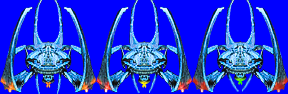
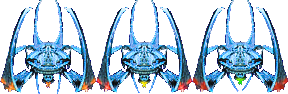
Cambio en la gestión de las imagenes
Se cambio como se manejaban las imagenes, siendo más similar al juego original y logrando ocupar menos espacio.

diff --git a/main.py b/main.py
@@ -46,25 +46,40 @@ vent_rect = ventana.get_rect()
 logo_rect = logo.get_rect()
 logo_rect.center = vent_rect.center
 
+EXPLOSION_IMAGEN = pygame.image.load('Imagenes/EXPLODE.PNG').convert()
+imagenes_invasores_todo_unido = [pygame.image.load('Imagenes/enemigos/ENEMY.PNG').convert()
+					            ,pygame.image.load('Imagenes/enemigos/ENEMY2.PNG').convert()
+					            ,pygame.image.load('Imagenes/enemigos/ENEMY3.PNG').convert()]
+					 
+imagen_potenciadores_todo_unido = pygame.image.load('./Imagenes/POWERUPS.PNG').convert()
+imagen_asteroides_todo_unido = pygame.image.load('Imagenes/ASTEROIDS.PNG').convert()
+imagen_nave_nodriza_todo_unido = pygame.image.load('Imagenes/enemigos/BOSS.PNG').convert()
 
-for each in ['./Imagenes/EXPLODE/EXPLODE%s.PNG'%x for x in range(1,21)]:
-	if each != None:
-		explosion.append(pygame.image.load(each).convert())
-
-listaPotenciadores = [] #imagenes de todos los potenciadores, CAMBIAR EL NOMBRE PARA QUE NO SE CONFUNDA CON lista_potenciadores
-for each in ['./Imagenes/Potenciadores/Potenciador_%s.PNG'%x for x in range(0,3)]:
-	if each != None:
-		listaPotenciadores.append(pygame.image.load(each).convert())
-imagenes_invasores = [[pygame.image.load(each).convert() for each in ["Imagenes/enemigos/ENEMY01.png","Imagenes/enemigos/ENEMY02.png","Imagenes/enemigos/ENEMY03.png"]]
-					 ,[pygame.image.load(each).convert() for each in ["Imagenes/enemigos/ENEMY2_%s.PNG"%x for x in range(1,5)]]
-					 ,[pygame.image.load(each).convert() for each in ["Imagenes/enemigos/ENEMY3_%s.PNG"%x for x in range(1,4)]]]
-
-
-disparos_invasor = [pygame.image.load(each).convert() for each in ["Imagenes/enemigos/ESHOT_0.png","Imagenes/enemigos/ESHOT_1.png","Imagenes/enemigos/ESHOT_2.png"]]
+# ~ disparos_invasor = [pygame.image.load(each).convert() for each in ["Imagenes/enemigos/ESHOT_0.png","Imagenes/enemigos/ESHOT_1.png","Imagenes/enemigos/ESHOT_2.png"]]
+imagen_disparos_invasor = pygame.image.load('Imagenes/enemigos/ESHOTS.PNG').convert()
 disparos_jugador = [pygame.image.load(each).convert() for each in ["Imagenes/SHOTS.png","Imagenes/SHOTS2.png","Imagenes/SHOTS3.png"]]
 
-imagenes_nave_nodriza = [pygame.image.load(each).convert() for each in ["./Imagenes/enemigos/BOSS_%s.png"%x for x in range(0,3)]]
+# ~ imagenes_nave_nodriza = [pygame.image.load(each).convert() for each in ["./Imagenes/enemigos/BOSS_%s.png"%x for x in range(0,3)]]
 
+def partidor_de_imagenes(ancho_de_sprite,imagen):
+	#esta función es para obtener cada uno de los sprites de por ejemplo la tira de sprites que es ASTEROIDS.PNG
+	sprite_inicio = 0 #indica cuantos pixeles a la izquierda está el origen en la imagen, para poder ir seleccionando los distintos estados del sprite
+	res = []
+	while sprite_inicio < imagen.get_width():
+		superficie = pygame.Surface((ancho_de_sprite, imagen.get_height()))
+		superficie.blit(imagen,(0,0),(sprite_inicio,0,ancho_de_sprite,imagen.get_height()))
+		res.append(superficie)
+		sprite_inicio += ancho_de_sprite
+	return res
+	
+#acá se parten las imagenes anteriormente cargadas
+explosion = partidor_de_imagenes(32,EXPLOSION_IMAGEN)
+imagenes_invasores = [partidor_de_imagenes(32,imagenes_invasores_todo_unido[i]) for i in range(len(imagenes_invasores_todo_unido))]
+imagenes_potenciadores = partidor_de_imagenes(32,imagen_potenciadores_todo_unido)
+del imagenes_potenciadores[2] #porque la verdad que no tengo idea que hace ese potenciador
+imagenes_asteroides = partidor_de_imagenes(32,imagen_asteroides_todo_unido)
+imagenes_nave_nodriza = partidor_de_imagenes(96,imagen_nave_nodriza_todo_unido)
+disparos_invasor = partidor_de_imagenes(7,imagen_disparos_invasor)
 #Carga de sonido
 sonido_potenciadores = pygame.mixer.Sound('./Sonidos/POWER.WAV')
 
@@ -107,7 +122,7 @@ def InvasionEspacial():
 		for each in range(0,cantidad):
 			#Después hacer que tenga en cuenta el tamaño de los asteroides
 			x = randint(0,resolución[0])
-			lista.append(Asteroide(x,-número))
+			lista.append(Asteroide(x,-número,imagenes_asteroides))
 			número += 20 #resolución[1]/2
 		return lista
 
@@ -269,7 +284,7 @@ def InvasionEspacial():
 					else:
 						x = randint(0,resolución[0])
 						y = randint(0,resolución[1])
-						listaAsteroides.append(Asteroide(x,-y))
+						listaAsteroides.append(Asteroide(x,-y,imagenes_asteroides))
 				else:
 					asteroide.rect.top += asteroide.velocidad
 					if asteroide.rect.top > 0:
@@ -402,7 +417,7 @@ def InvasionEspacial():
 
 					for asteroide in listaAsteroides:
 						if x.rect.colliderect(asteroide.rect):
-							el_ast = asteroide.recibir_disparo(niv,camp_ast,lista_potenciadores,listaAsteroides,jugador.listadisparo,listaExplosiones,el_ast,listaPotenciadores,sonidoExplosion,sonido_potenciadores)
+							el_ast = asteroide.recibir_disparo(niv,camp_ast,lista_potenciadores,listaAsteroides,jugador.listadisparo,listaExplosiones,el_ast,imagenes_potenciadores,sonidoExplosion,sonido_potenciadores)
 
 					if niv == niv_nod and ("nave_nodriza0" in locals() or "nave_nodriza0" in globals()):
 						if x.rect.colliderect(nave_nodriza0):

diff --git a/Proyectil.py b/Proyectil.py
@@ -1,10 +1,10 @@
 import pygame
 class Proyectil():
-	def __init__(self,posx,posy, imageProyectil, personaje):
+	def __init__(self,posx,posy, imagenProyectil, personaje):
 		pygame.sprite.Sprite.__init__(self)
 		# ~ self.imageProyectil = pygame.image.load(ruta).convert()
-		self.imageProyectil = imageProyectil
-		self.rect = self.imageProyectil.get_rect()
+		self.imagenProyectil = imagenProyectil
+		self.rect = self.imagenProyectil.get_rect()
 		self.rect.top = posy
 		self.rect.left = posx
 		self.velocidadDisparo = 5
@@ -17,4 +17,4 @@ class Proyectil():
 			self.rect.top = self.rect.top + self.velocidadDisparo
 
 	def dibujar(self,superficie):
-		superficie.blit(self.imageProyectil,self.rect)
+		superficie.blit(self.imagenProyectil,self.rect)

diff --git a/Asteroide.py b/Asteroide.py
@@ -5,13 +5,10 @@ from Explosion import Explosion
 
 class Asteroide():
 	velocidad = 5
-	def __init__(self,posx,posy):
+	def __init__(self,posx,posy,listaimagenes):
 		pygame.sprite.Sprite.__init__(self)
-		self.listaimagenes = []
+		self.listaimagenes = listaimagenes
 		self.vida = True
-		for each in ['./Imagenes/Asteroides/ASTEROID%s.PNG'%x for x in range(0,5)]:
-			if each != None:
-				self.listaimagenes.append(pygame.image.load(each).convert())
 		self.rand = randint(0,3)
 		self.rect = self.listaimagenes[self.rand].get_rect()
 		self.rect.left = posx
